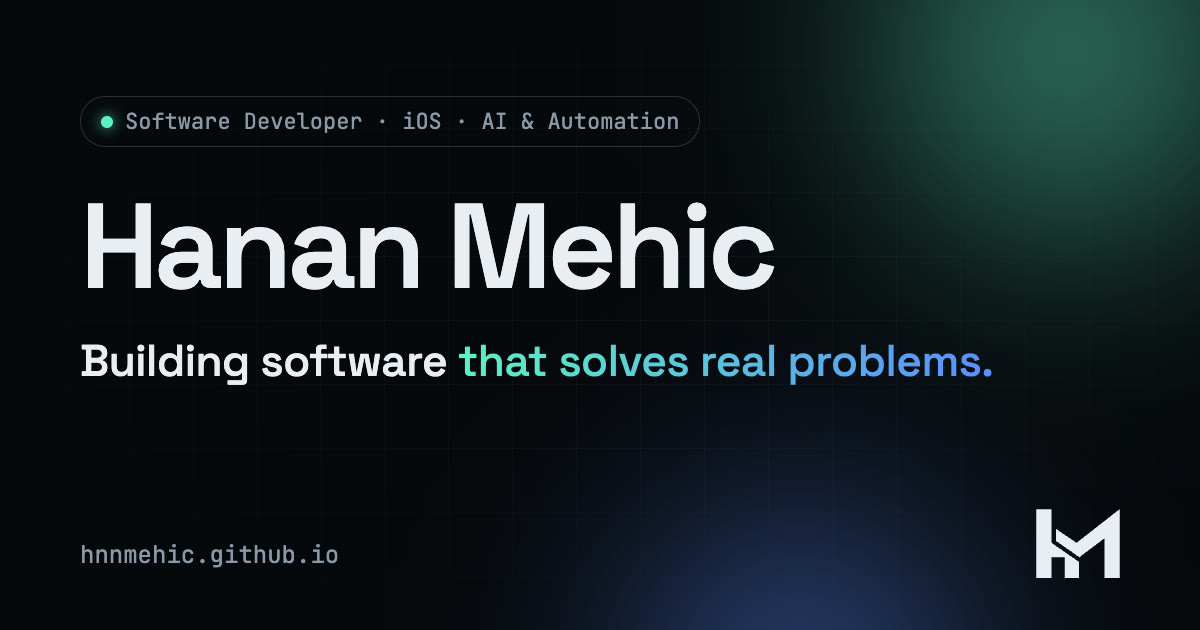
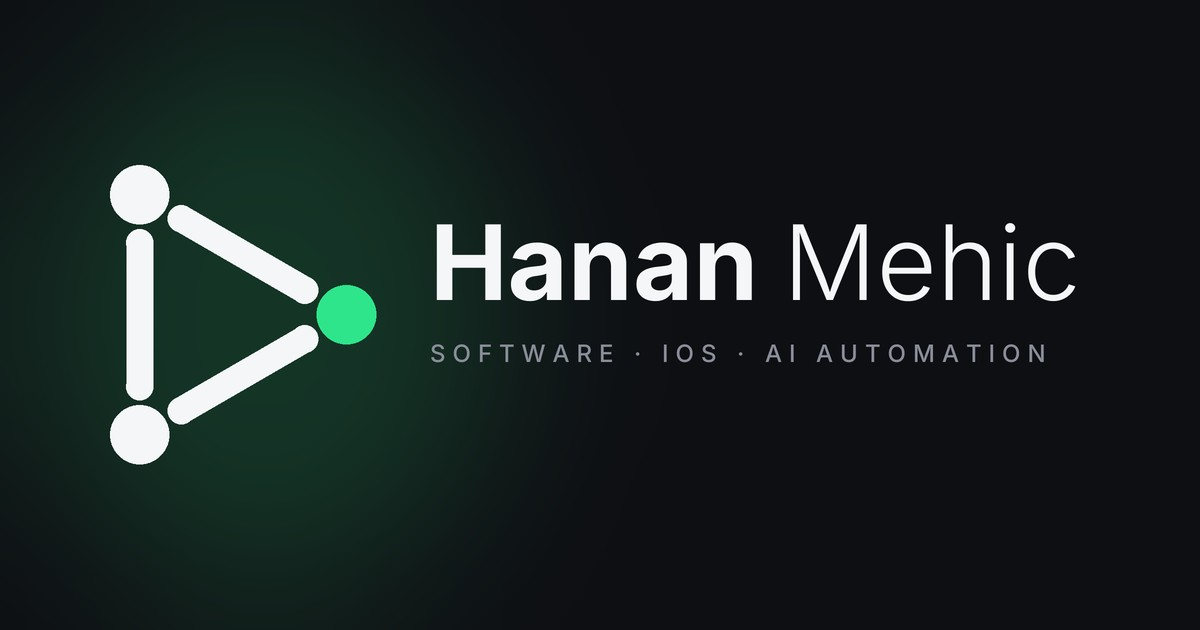
feat: Design an HM-Digital-Branding angepasst
Graphit/Weiß mit grünem Akzent, Inter als einzige Schrift, neues Signet
in Header, Footer und Hero, neue Favicons und Vorschaubild.

diff --git a/src/styles/global.css b/src/styles/global.css
@@ -1,4 +1,3 @@
-@import '@fontsource-variable/space-grotesk';
 @import '@fontsource-variable/inter';
 @import '@fontsource-variable/jetbrains-mono';
 @import './tokens.css';
@@ -17,25 +16,27 @@ body {
 }
 img, video { display: block; max-width: 100%; }
 a { color: inherit; text-decoration: none; }
-h1, h2, h3 { font-family: var(--font-display); line-height: 1.05; letter-spacing: -0.02em; margin: 0; font-weight: 600; }
+h1, h2, h3 { font-family: var(--font-display); line-height: 1.05; letter-spacing: -0.035em; margin: 0; font-weight: 700; }
+/* Wortmarke wie im Logo: fetter Teil + leichter Teil */
+.thin { font-weight: 300; }
 p { margin: 0; }
-::selection { background: var(--accent); color: var(--bg); }
+::selection { background: var(--accent); color: var(--on-accent); }
 :focus-visible { outline: 2px solid var(--accent); outline-offset: 3px; border-radius: 6px; }
 
 .container { width: 100%; max-width: var(--container); margin-inline: auto; padding-inline: var(--gutter); }
 .section { padding-block: var(--section); position: relative; }
 
 .label {
-  font-family: var(--font-mono);
   font-size: 13px;
-  letter-spacing: 0.08em;
+  font-weight: 500;
+  letter-spacing: 0.24em;
   text-transform: uppercase;
-  color: var(--accent);
+  color: var(--muted);
   display: inline-flex;
   align-items: center;
-  gap: 10px;
+  gap: 12px;
 }
-.label::before { content: ''; width: 28px; height: 1px; background: currentColor; opacity: 0.6; }
+.label::before { content: ''; width: 9px; height: 9px; border-radius: 50%; background: var(--accent); box-shadow: 0 0 12px var(--accent-glow); }
 .section-title { font-size: clamp(36px, 5.5vw, 64px); margin-top: 18px; max-width: 16ch; }
 .gradient-text { background: var(--gradient); -webkit-background-clip: text; background-clip: text; color: transparent; }
 
@@ -47,7 +48,7 @@ p { margin: 0; }
   transition: transform 0.3s var(--ease), background 0.3s var(--ease), border-color 0.3s, box-shadow 0.3s;
 }
 .btn:hover { transform: translateY(-2px); border-color: var(--accent); }
-.btn-primary { background: var(--accent); color: #04110c; border-color: transparent; box-shadow: 0 0 0 0 var(--accent-glow); }
+.btn-primary { background: var(--accent); color: var(--on-accent); border-color: transparent; box-shadow: 0 0 0 0 var(--accent-glow); }
 .btn-primary:hover { box-shadow: 0 10px 40px -8px var(--accent-glow); border-color: transparent; }
 .btn-ghost { background: rgb(255 255 255 / 0.04); backdrop-filter: blur(10px); }
 .icon-btn {

diff --git a/src/styles/tokens.css b/src/styles/tokens.css
@@ -1,19 +1,21 @@
-/* Design-Tokens: für ein neues Branding nur diese Datei anpassen. */
+/* Design-Tokens: für ein neues Branding nur diese Datei anpassen.
+   Abgeleitet vom HM-Digital-Logo: Graphit, Weiß, ein grüner Akzent. */
 :root {
-  --bg: #06080c;
-  --bg-2: #0a0e14;
-  --surface: #0f141c;
-  --surface-2: #141b25;
-  --line: rgb(255 255 255 / 0.08);
-  --line-strong: rgb(255 255 255 / 0.16);
-  --text: #e9eef4;
-  --muted: #8c99a9;
-  --accent: #5ef2c1;
-  --accent-2: #5b8cff;
-  --accent-glow: rgb(94 242 193 / 0.35);
-  --gradient: linear-gradient(100deg, var(--accent) 0%, var(--accent-2) 100%);
+  --bg: #0e0f13;
+  --bg-2: #121318;
+  --surface: #16181e;
+  --surface-2: #1c1e25;
+  --line: rgb(255 255 255 / 0.07);
+  --line-strong: rgb(255 255 255 / 0.14);
+  --text: #f5f6f8;
+  --muted: #8a8e99;
+  --accent: #2ee58c;
+  --accent-2: #c9ccd3;
+  --accent-glow: rgb(46 229 140 / 0.32);
+  --on-accent: #06140d;
+  --gradient: linear-gradient(100deg, #ffffff 0%, var(--accent) 100%);
 
-  --font-display: 'Space Grotesk Variable', system-ui, sans-serif;
+  --font-display: 'Inter Variable', system-ui, sans-serif;
   --font-body: 'Inter Variable', system-ui, sans-serif;
   --font-mono: 'JetBrains Mono Variable', ui-monospace, monospace;
 
